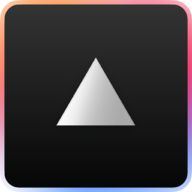
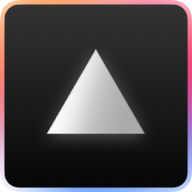
theme config

Changed region(s): [[0.25, 0.25, 0.75, 0.75]]

diff --git a/apps/docs/theme.config.jsx b/apps/docs/theme.config.jsx
@@ -5,7 +5,205 @@ export default {
   project: {
     link: 'https://github.com/shuding/nextra'
   },
-  logo: <strong>AI Utils</strong>,
+  logo: (
+    <span className="flex gap-2 font-bold text-lg items-center select-none">
+      <svg
+        xmlns="http://www.w3.org/2000/svg"
+        height="24"
+        fill="none"
+        viewBox="0 0 1024 1024"
+      >
+        <g clipPath="url(#clip0_102_208)">
+          <rect
+            width="977.455"
+            height="977.455"
+            x="23.273"
+            y="23.273"
+            fill="url(#paint0_linear_102_208)"
+            rx="79.515"
+          ></rect>
+          <g filter="url(#filter0_di_102_208)">
+            <path
+              fill="url(#paint1_linear_102_208)"
+              d="M511.03 306.424l210.424 362.667H300.606L511.03 306.424z"
+            ></path>
+          </g>
+          <mask
+            id="mask0_102_208"
+            style={{ maskType: 'alpha' }}
+            width="1024"
+            height="1024"
+            x="0"
+            y="0"
+            maskUnits="userSpaceOnUse"
+          >
+            <rect
+              width="1000.73"
+              height="1000.73"
+              x="11.636"
+              y="11.636"
+              stroke="#000"
+              strokeWidth="23.273"
+              rx="91.151"
+            ></rect>
+          </mask>
+          <g filter="url(#filter1_f_102_208)" mask="url(#mask0_102_208)">
+            <path
+              fill="url(#paint2_linear_102_208)"
+              d="M-88.638 197.111l277.355-340.626L630.689 41.738c37.58 187.244 55.072 561.734-175.591 561.734-194.273 0-240.351-110.687-239.325-192.224-23.622 150.658-122.154 378.807-377.242 339.629-43.1-30.278 30.596-381.793 72.83-553.766z"
+            ></path>
+            <path
+              fill="url(#paint3_linear_102_208)"
+              d="M514.513 329.324l339.424 273.797 333.033 24.789c-80.41 173.273-287.78 485.83-473.947 349.874-186.167-135.958-279.862 250.156-219.226 197.766-94.394 110.83-164.922-242.362-365.58-442.213-16.878-49.841 250.498-290.109 386.296-404.013z"
+            ></path>
+            <path
+              fill="url(#paint4_linear_102_208)"
+              d="M987.377 739.387L569.385 614.252 251.741 717.175c8.717-190.768 82.117-558.433 305.986-502.955 223.869 55.478 164.166-337.305 127.908-265.904 45.342-138.248 244.558 161.995 506.075 271.134 34.52 39.752-121.84 363.188-204.333 519.937z"
+            ></path>
+          </g>
+        </g>
+        <defs>
+          <filter
+            id="filter0_di_102_208"
+            width="579.879"
+            height="521.697"
+            x="221.091"
+            y="242.424"
+            colorInterpolationFilters="sRGB"
+            filterUnits="userSpaceOnUse"
+          >
+            <feFlood floodOpacity="0" result="BackgroundImageFix"></feFlood>
+            <feColorMatrix
+              in="SourceAlpha"
+              result="hardAlpha"
+              values="0 0 0 0 0 0 0 0 0 0 0 0 0 0 0 0 0 0 127 0"
+            ></feColorMatrix>
+            <feOffset dy="15.515"></feOffset>
+            <feGaussianBlur stdDeviation="39.758"></feGaussianBlur>
+            <feComposite in2="hardAlpha" operator="out"></feComposite>
+            <feColorMatrix values="0 0 0 0 0 0 0 0 0 0 0 0 0 0 0 0 0 0 0.25 0"></feColorMatrix>
+            <feBlend
+              in2="BackgroundImageFix"
+              result="effect1_dropShadow_102_208"
+            ></feBlend>
+            <feBlend
+              in="SourceGraphic"
+              in2="effect1_dropShadow_102_208"
+              result="shape"
+            ></feBlend>
+            <feColorMatrix
+              in="SourceAlpha"
+              result="hardAlpha"
+              values="0 0 0 0 0 0 0 0 0 0 0 0 0 0 0 0 0 0 127 0"
+            ></feColorMatrix>
+            <feOffset dx="0.97" dy="13.576"></feOffset>
+            <feGaussianBlur stdDeviation="0.97"></feGaussianBlur>
+            <feComposite
+              in2="hardAlpha"
+              k2="-1"
+              k3="1"
+              operator="arithmetic"
+            ></feComposite>
+            <feColorMatrix values="0 0 0 0 0.0286285 0 0 0 0 0.0404458 0 0 0 0 0.0708333 0 0 0 0.06 0"></feColorMatrix>
+            <feBlend in2="shape" result="effect2_innerShadow_102_208"></feBlend>
+          </filter>
+          <filter
+            id="filter1_f_102_208"
+            width="2146.91"
+            height="2115.88"
+            x="-562.424"
+            y="-531.394"
+            colorInterpolationFilters="sRGB"
+            filterUnits="userSpaceOnUse"
+          >
+            <feFlood floodOpacity="0" result="BackgroundImageFix"></feFlood>
+            <feBlend
+              in="SourceGraphic"
+              in2="BackgroundImageFix"
+              result="shape"
+            ></feBlend>
+            <feGaussianBlur
+              result="effect1_foregroundBlur_102_208"
+              stdDeviation="193.939"
+            ></feGaussianBlur>
+          </filter>
+          <linearGradient
+            id="paint0_linear_102_208"
+            x1="512"
+            x2="512"
+            y1="23.273"
+            y2="1000.73"
+            gradientUnits="userSpaceOnUse"
+          >
+            <stop stopColor="#333434"></stop>
+            <stop offset="1" stopColor="#060606"></stop>
+          </linearGradient>
+          <linearGradient
+            id="paint1_linear_102_208"
+            x1="249.709"
+            x2="750.212"
+            y1="532.522"
+            y2="688.409"
+            gradientUnits="userSpaceOnUse"
+          >
+            <stop stopColor="#fff"></stop>
+            <stop offset="0.089" stopColor="#FEFEFE"></stop>
+            <stop offset="0.161" stopColor="#FCFCFC"></stop>
+            <stop offset="0.22" stopColor="#F9F9F9"></stop>
+            <stop offset="0.267" stopColor="#F5F5F5"></stop>
+            <stop offset="0.305" stopColor="#F0F0F0"></stop>
+            <stop offset="0.336" stopColor="#EAEAEA"></stop>
+            <stop offset="0.364" stopColor="#E3E3E3"></stop>
+            <stop offset="0.391" stopColor="#DCDCDC"></stop>
+            <stop offset="0.418" stopColor="#D5D5D5"></stop>
+            <stop offset="0.45" stopColor="#CDCDCD"></stop>
+            <stop offset="0.488" stopColor="#C6C6C6"></stop>
+            <stop offset="0.535" stopColor="#BEBEBE"></stop>
+            <stop offset="0.593" stopColor="#B7B7B7"></stop>
+            <stop offset="0.666" stopColor="#B0B0B0"></stop>
+            <stop offset="0.755" stopColor="#AAA"></stop>
+          </linearGradient>
+          <linearGradient
+            id="paint2_linear_102_208"
+            x1="511.03"
+            x2="511.03"
+            y1="-143.515"
+            y2="1196.61"
+            gradientUnits="userSpaceOnUse"
+          >
+            <stop stopColor="#F90"></stop>
+            <stop offset="1" stopColor="#F09"></stop>
+          </linearGradient>
+          <linearGradient
+            id="paint3_linear_102_208"
+            x1="511.03"
+            x2="511.03"
+            y1="-420.532"
+            y2="923.552"
+            gradientUnits="userSpaceOnUse"
+          >
+            <stop stopColor="#00D1FF"></stop>
+            <stop offset="1" stopColor="#0057FF"></stop>
+          </linearGradient>
+          <linearGradient
+            id="paint4_linear_102_208"
+            x1="420.072"
+            x2="1100.96"
+            y1="571.6"
+            y2="202.116"
+            gradientUnits="userSpaceOnUse"
+          >
+            <stop stopColor="#AD00FF"></stop>
+            <stop offset="1" stopColor="red"></stop>
+          </linearGradient>
+          <clipPath id="clip0_102_208">
+            <path fill="#fff" d="M0 0H1024V1024H0z"></path>
+          </clipPath>
+        </defs>
+      </svg>
+      AI Utils
+    </span>
+  ),
   useNextSeoProps: () => {
     const { title } = useConfig()
     return {
@@ -118,21 +316,14 @@ export default {
       </>
     )
   },
+  docsRepositoryBase:
+    'https://github.com/vercel-labs/ai-utils/tree/main/apps/docs',
   project: {
     link: 'https://github.com/vercel-labs/ai-utils'
   },
   footer: {
     text: (
-      <div
-        style={{
-          display: 'flex',
-          flexDirection: 'column',
-          justifyContent: 'flex-start',
-          alignItems: 'flex-start',
-          gap: '1rem',
-          fontSize: '0.8rem'
-        }}
-      >
+      <div className="flex flex-col justify-center items-center md:items-start gap-4 text-sm text-center">
         <a href="https://vercel.com/" target="_blank">
           <svg
             xmlns="http://www.w3.org/2000/svg"

diff --git a/apps/docs/styles.css b/apps/docs/styles.css
@@ -27,3 +27,15 @@ body {
     fixed 0 0 / 20px 20px radial-gradient(#313131 1px, transparent 0),
     fixed 10px 10px / 20px 20px radial-gradient(#313131 1px, transparent 0);
 }
+
+.main-title {
+  background: linear-gradient(180deg, #555, #000);
+  background-clip: text;
+  -webkit-text-fill-color: transparent;
+}
+
+.dark .main-title {
+  background: linear-gradient(180deg, #fff, #aaa);
+  background-clip: text;
+  -webkit-text-fill-color: transparent;
+}

diff --git a/apps/docs/tailwind.config.js b/apps/docs/tailwind.config.js
@@ -2,6 +2,6 @@ module.exports = {
   content: [
     './components/**/*.js',
     './pages/**/*.{md,mdx}',
-    './theme.config.js'
+    './theme.config.jsx'
   ]
 }
